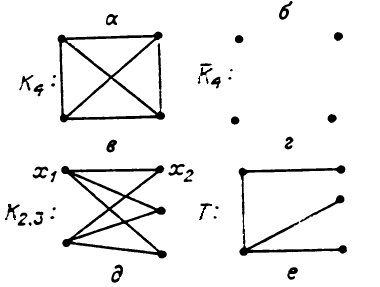
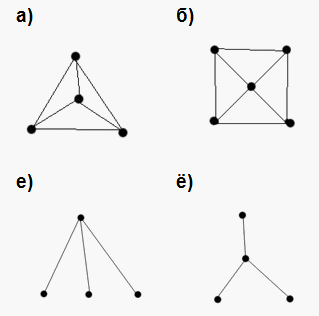
изменение стилей, добавление подвала

diff --git a/BottleWebProject_C326_3_PKKR/static/content/cliques.css b/BottleWebProject_C326_3_PKKR/static/content/cliques.css
@@ -8,9 +8,10 @@
     inset: 0;
     overflow-y: auto;
     background: linear-gradient(rgba(15,15,15,0.82)), url("/static/images/cliques.png") center/cover no-repeat fixed;
-    padding: 93px 45px 60px;
+    padding: 60px 45px 60px;
     font-family: 'Montserrat', sans-serif;
     color: white;
+    padding-bottom: 0
 }
 
 /* полупрозрачный слой поверх фона */
@@ -41,6 +42,9 @@
 /* блок теории — раскрывающийся details */
 .theory-block {
     margin-bottom: 36px;
+    margin-left: auto;
+    margin-right: auto;
+    max-width: 1250px;
     border-radius: 18px;
     overflow: hidden;
     background: rgba(0,0,0,0.55);
@@ -118,7 +122,7 @@
 }
 
 .theory-content p {
-    font-size: 1.8rem;
+    font-size: 1.55rem;
     line-height: 1.5;
     color: #f1f8e9;
     white-space: pre-line;
@@ -143,16 +147,6 @@
         box-shadow: 0 6px 20px rgba(0,0,0,0.4);
     }
 
-    /* подпись под картинкой */
-    .theory-figure figcaption {
-        margin-top: 8px;
-        font-size: 1.35rem;
-        color: rgba(255,255,255,0.6);
-        font-style: italic;
-        font-family: 'Montserrat', sans-serif;
-        max-width: 320px;
-    }
-
 /* двухколоночный макет: левая — ввод, правая — результат */
 .main-layout {
     display: flex;
@@ -161,11 +155,11 @@
 }
 
 .left-panel {
-    width: 55%;
+    width: 45%;
 }
 
 .right-panel {
-    width: 45%;
+    width: 55%;
 }
 
 /* зелёная карточка */
@@ -215,7 +209,7 @@
 
 /* подсказка под вкладкой, объясняет что делать */
 .tab-hint {
-    font-size: 1.6rem;
+    font-size: 1.4rem;
     color: #e8f5e9;
     margin-bottom: 14px;
     line-height: 1.4;
@@ -255,6 +249,11 @@
     flex-wrap: wrap;
     gap: 14px;
     margin-bottom: 14px;
+}
+
+/* кнопки по центру карточки */
+.buttons-center {
+    justify-content: center;
 }
 
 /* базовый стиль кнопки */
@@ -418,7 +417,7 @@ input[type=number] {
 
 /* место под граф, пока пустое */
 .graph-placeholder {
-    min-height: 360px;
+    min-height: 400px;
     border-radius: 14px;
     border: 2px dashed rgba(255,255,255,0.24);
     display: flex;
@@ -444,12 +443,13 @@ input[type=number] {
 .result-list {
     padding: 18px;
     border-radius: 14px;
+    height: 120px;
     background: rgba(255,255,255,0.08);
     border: 1px solid rgba(255,255,255,0.16);
 }
 
     .result-list p {
-        font-size: 1.6rem;
+        font-size: 1.55rem;
         line-height: 1.6;
         margin-bottom: 10px;
         color: #f1f8e9;
@@ -458,3 +458,43 @@ input[type=number] {
         .result-list p:last-child {
             margin-bottom: 0;
         }
+
+/* заголовок со ссылкой — h1 по центру, ссылка справа */
+.page-header {
+    position: relative;
+    display: flex;
+    align-items: center;
+    justify-content: center;
+    margin-bottom: 25px;
+    border-bottom: none;
+}
+
+.hero-cliques h1 {
+    text-align: center;
+    font-size: 3.1rem;
+    font-weight: 700;
+    margin-bottom: 0;
+    text-transform: uppercase;
+    letter-spacing: 0.04em;
+}
+
+/* ссылка прибита к правому краю через absolute */
+.scroll-link {
+    position: absolute;
+    margin-top: 50px;
+    right: 100px;
+    font-size: 1.4rem;
+    font-weight: 600;
+    color: white;
+    text-decoration: none;
+    padding: 8px 20px;
+    border: 1px solid rgba(255,255,255,0.25);
+    border-radius: 10px;
+    background: rgba(0,0,0,0.3);
+    transition: background 0.2s, color 0.2s;
+}
+
+    .scroll-link:hover {
+        background: rgba(255,255,255,0.1);
+        color: #fff;
+    }

diff --git a/BottleWebProject_C326_3_PKKR/static/content/site.css b/BottleWebProject_C326_3_PKKR/static/content/site.css
@@ -119,3 +119,65 @@ input[type="checkbox"].input-validation-error {
 .body-content {
     margin-top: 50px;
 }
+.site-footer {
+    width: 100vw;
+    margin-left: calc(-50vw + 50%);
+    background: #000;
+    padding: 15px 90px 28px;
+    box-sizing: border-box;
+    margin-top: 40px;
+}
+
+.footer-inner {
+    display: flex;
+    align-items: flex-start;
+    gap: 60px;
+}
+.footer-brand {
+    display: flex;
+    flex-direction: column;
+    gap: 6px;
+    margin: 12px 0 0;
+}
+
+.footer-logo {
+    font-size: 1.6rem;
+    font-weight: 700;
+    color: #fff;
+    font-family: 'Montserrat', sans-serif;
+}
+
+.footer-year {
+    font-family: 'Montserrat', sans-serif;
+    font-size: 1.4rem;
+    color: rgba(255,255,255,0.7);
+}
+
+.footer-col {
+    display: flex;
+    flex-direction: column;
+    gap: 6px;
+    margin: 12px 0 0;
+}
+
+.footer-label {
+    font-family: 'Montserrat', sans-serif;
+    font-size: 1.6rem;
+    font-weight: 700;
+    color: #fff;
+    letter-spacing: 0.04em;
+}
+
+.footer-col a,
+.footer-col p {
+    font-family: 'Montserrat', sans-serif;
+    font-size: 1.4rem;
+    color: #fff;
+    text-decoration: none;
+    margin: 0;
+    line-height: 1.3;
+}
+
+    .footer-col a:hover {
+        text-decoration: underline;
+    }

diff --git a/BottleWebProject_C326_3_PKKR/static/content/about.css b/BottleWebProject_C326_3_PKKR/static/content/about.css
@@ -7,7 +7,7 @@
     flex-direction: column;
     justify-content: center;
     align-items: center;
-    padding: 220px 40px 0;
+    padding: 140px 40px 0;
     font-family: 'Montserrat',sans-serif;
 }
 
@@ -125,7 +125,7 @@
     margin-top: auto;
     margin-left: calc(-50vw + 50%);
     background: #000;
-    padding: 18px 90px 38px;
+    padding: 15px 90px 28px;
     box-sizing: border-box;
 }
 
@@ -154,7 +154,7 @@
 }
 
 .contact-column h4 {
-    font-size: 1.9rem;
+    font-size: 1.6rem;
     font-weight: 700;
     color: #fff;
     margin-bottom: 12px;
@@ -164,7 +164,7 @@
 .contact-column p,
 .contact-column a {
     display: block;
-    font-size: 1.52rem;
+    font-size: 1.4rem;
     line-height: 1.3;
     color: #fff;
     text-decoration: none;
@@ -176,3 +176,29 @@
         color: #fff;
         text-decoration: underline;
     }
+
+.card-links {
+    display: flex;
+    gap: 12px;
+    justify-content: center;
+    margin-top: 14px;
+}
+
+    .card-links a {
+        flex: 1;
+        display: block;
+        padding: 16px;
+        border-radius: 10px;
+        background: rgba(255,255,255,0.10);
+        border: 1px solid rgba(255,255,255,0.22);
+        color: #fff !important;
+        text-decoration: none !important;
+        font-size: 1.4rem;
+        font-weight: 600;
+        transition: background 0.2s;
+        text-align: center;
+    }
+
+        .card-links a:hover {
+            background: rgba(255,255,255,0.22);
+        }

diff --git a/BottleWebProject_C326_3_PKKR/static/content/euler.css b/BottleWebProject_C326_3_PKKR/static/content/euler.css
@@ -12,6 +12,7 @@
     padding: 93px 45px 60px;
     font-family: 'Montserrat', sans-serif;
     color: white;
+    padding-bottom: 0
 }
 
 .overlay {